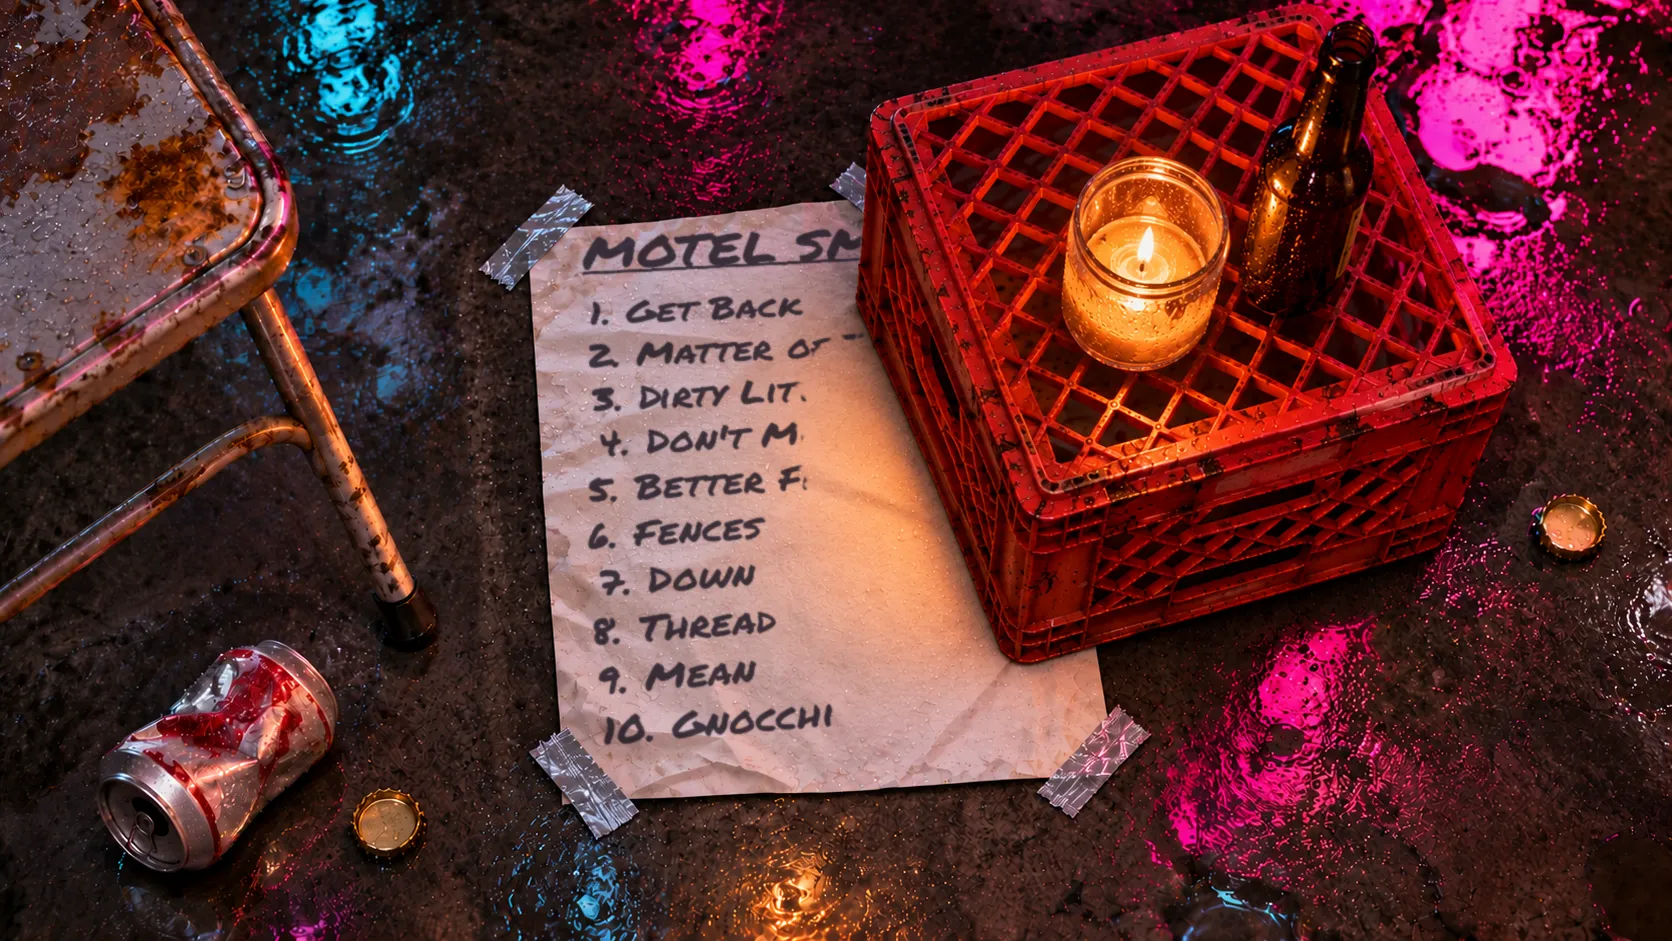
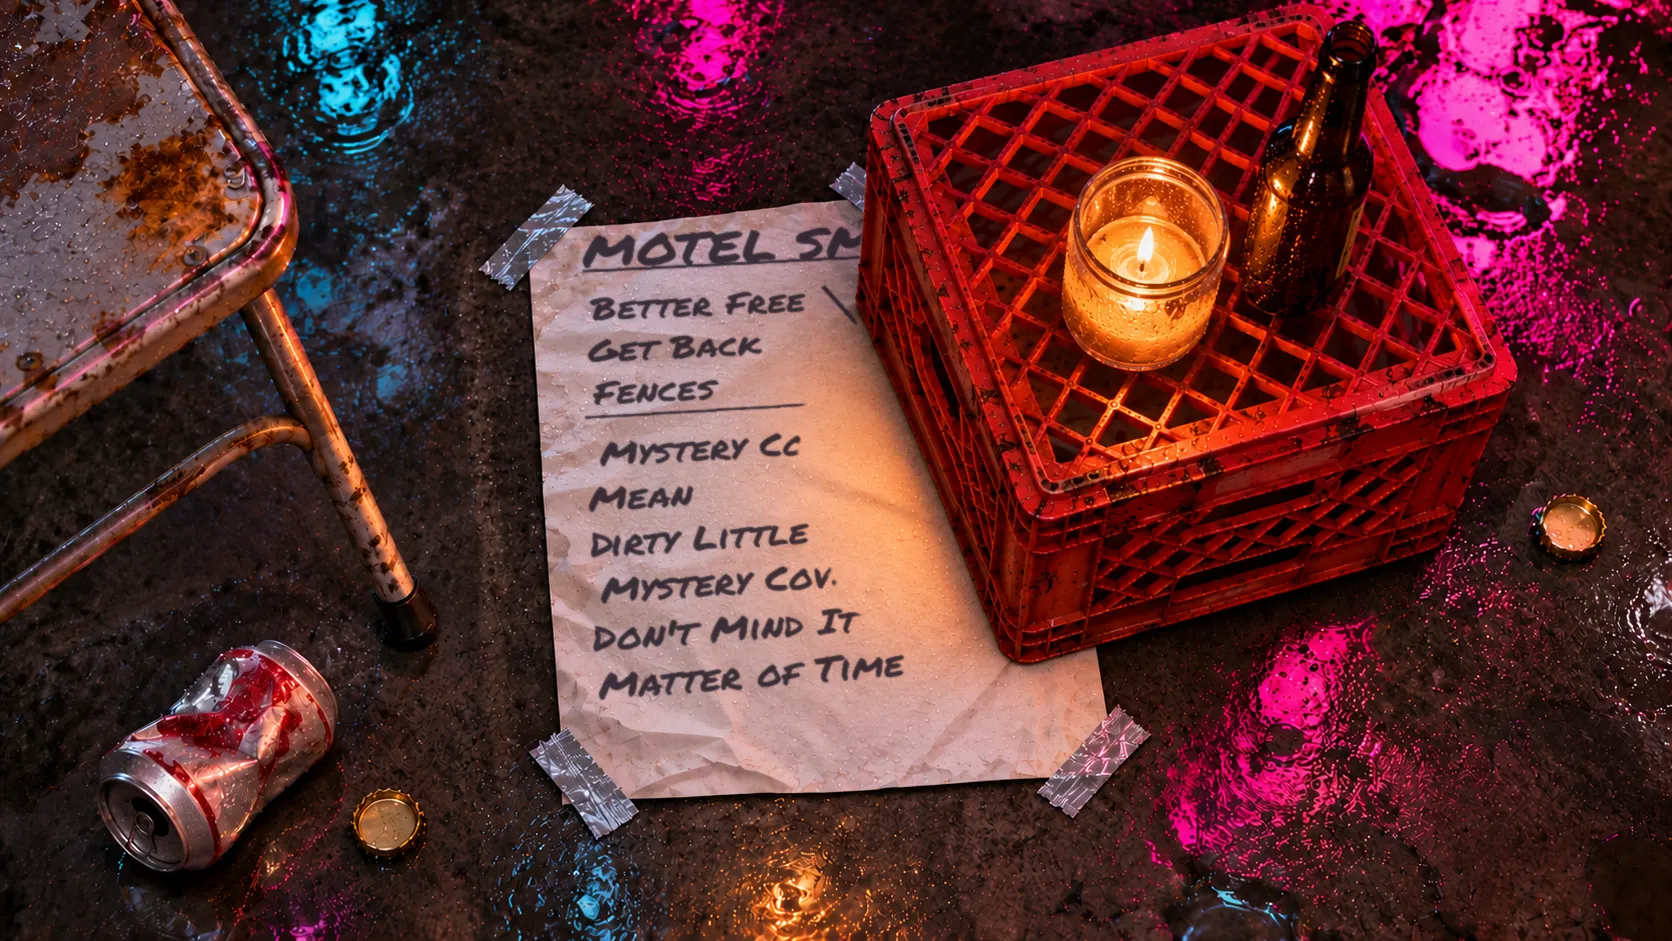
Setlist: real running order with the Big 3 bracket and Mystery Cover Tunes
Claude-Session: https://claude.ai/code/session_011gssdMsenVXumrh9a32rRB

Changed region(s): [[0.3421, 0.2465, 0.5598, 0.8013]]

diff --git a/index.html b/index.html
@@ -4540,7 +4540,7 @@ body.ph .sign{font-size:clamp(32px,10vw,46px)!important;margin-top:2px!important
 @media (prefers-reduced-motion:reduce){#sl .sl-wrap,#sl .sl-f{transition:none}#play .sl-curl{animation:none}}
 </style>
 <div id="sl" aria-hidden="true" role="dialog" aria-label="The setlist under the crate">
-  <div class="sl-wrap"><img class="sl-f f1" alt="" data-src="img/hang/sl1.webp?v=2" width="1672" height="941"><img class="sl-f f2" alt="" data-src="img/hang/sl2.webp?v=1" width="1672" height="941"><img class="sl-f f3 sl-bg" alt="Tonight's setlist, gaffer-taped to the roof: Get Back, Matter of Time, Dirty Little Liar, Don't Mind It, Better Free, Fences, Down, Thread, Mean, Gnocchi" data-src="img/hang/sl3.webp?v=1" width="1672" height="941"></div>
+  <div class="sl-wrap"><img class="sl-f f1" alt="" data-src="img/hang/sl1.webp?v=3" width="1672" height="941"><img class="sl-f f2" alt="" data-src="img/hang/sl2.webp?v=3" width="1672" height="941"><img class="sl-f f3 sl-bg" alt="Tonight's setlist, gaffer-taped to the roof: the Big 3 (Better Free, Get Back, Fences), then Mystery Cover Tune, Mean, Dirty Little Liar, Mystery Cover Tune, Don't Mind It, Matter of Time" data-src="img/hang/sl3.webp?v=3" width="1672" height="941"></div>
   <div class="sl-shade"></div>
   <button class="sl-x" type="button">✕ Back to the roof</button>
   <div class="sl-hint">Tonight’s setlist</div>
